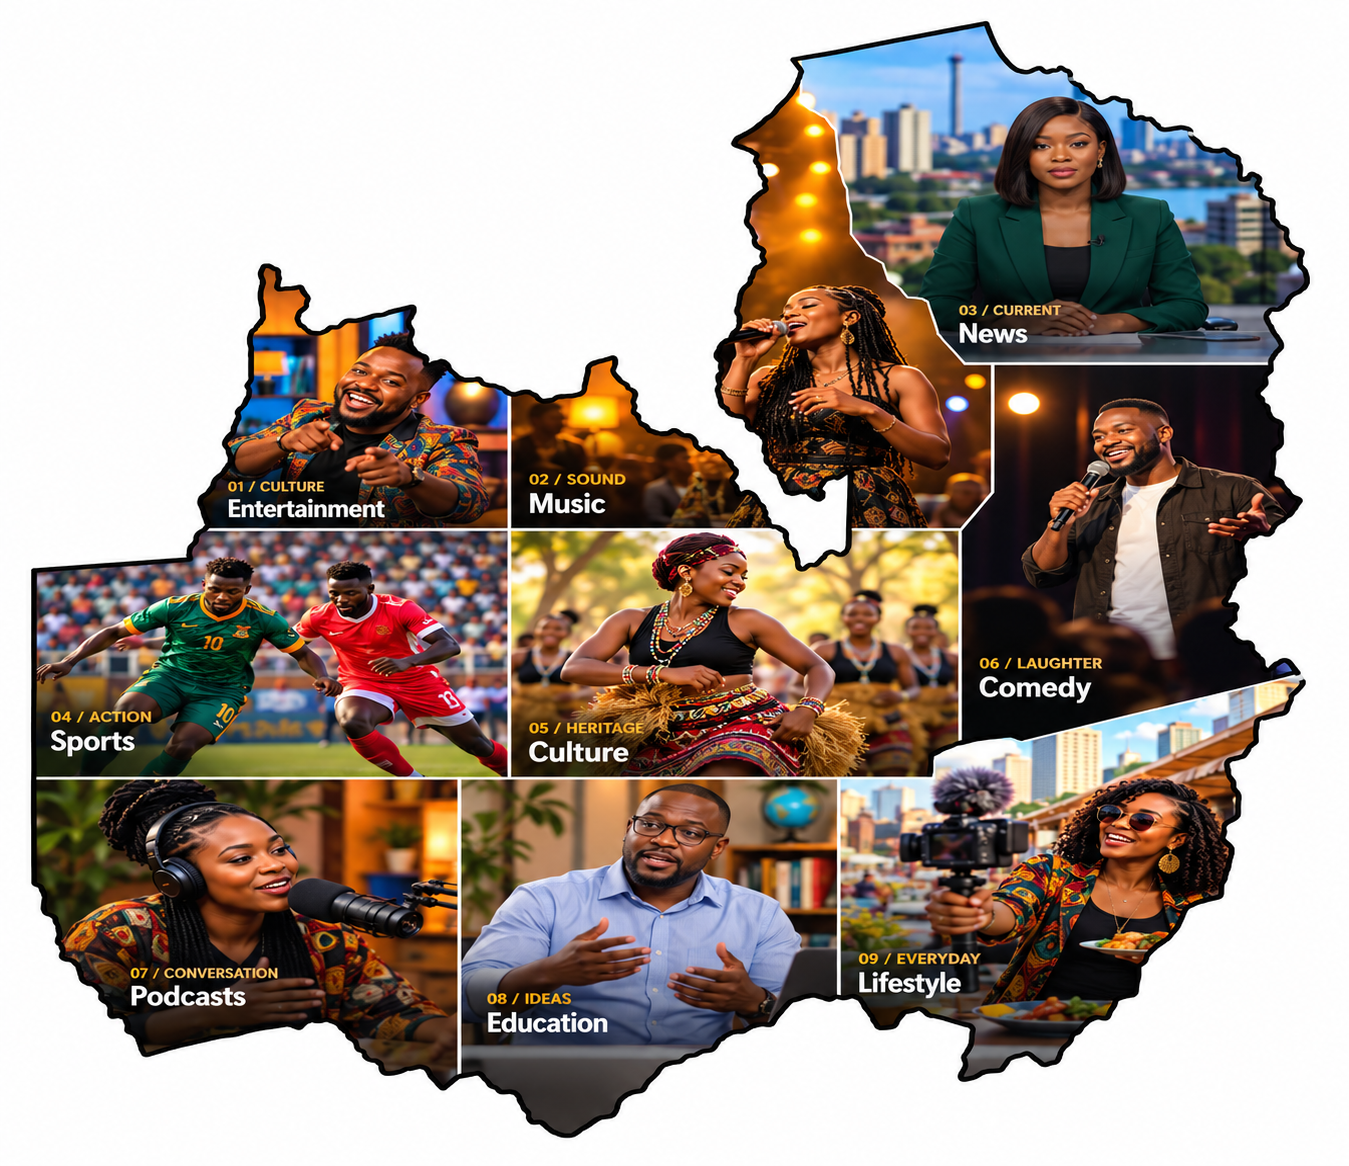
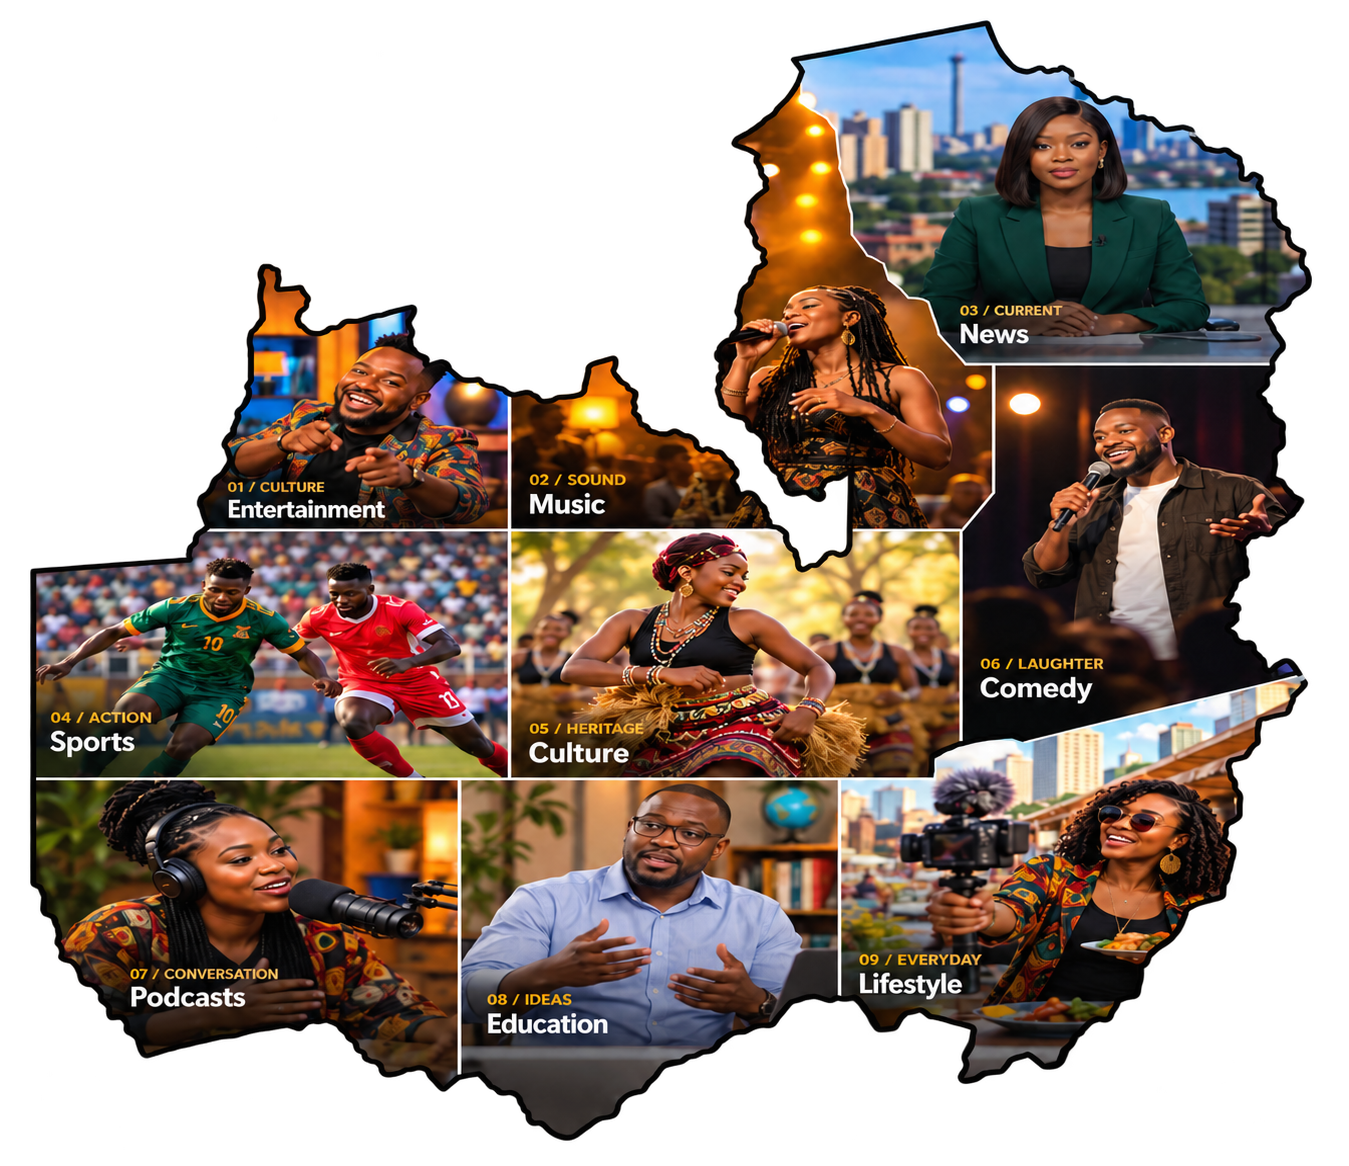
Remove white background from Zambia map

diff --git a/zedplus.css b/zedplus.css
@@ -126,7 +126,7 @@ h1, h2, h3 { font-weight: 600; letter-spacing: -.06em; }
 .viewer-heading-copy { display: grid; justify-items: start; gap: 17px; }
 .text-link { color: var(--orange-bright); font-size: .7rem; font-weight: 600; }
 .text-link span { margin-left: 6px; }
-.content-map { width: min(100%, 960px); margin: 0 auto; overflow: hidden; border: 1px solid rgba(255,255,255,.12); border-radius: 8px; background: #fff; box-shadow: 0 18px 55px rgba(0,0,0,.24); }
+.content-map { width: min(100%, 960px); margin: 0 auto; }
 .content-map img { display: block; width: 100%; height: auto; }
 .image-disclaimer { margin: 13px 0 0; color: var(--quiet); font-size: .56rem; text-align: right; }
 
